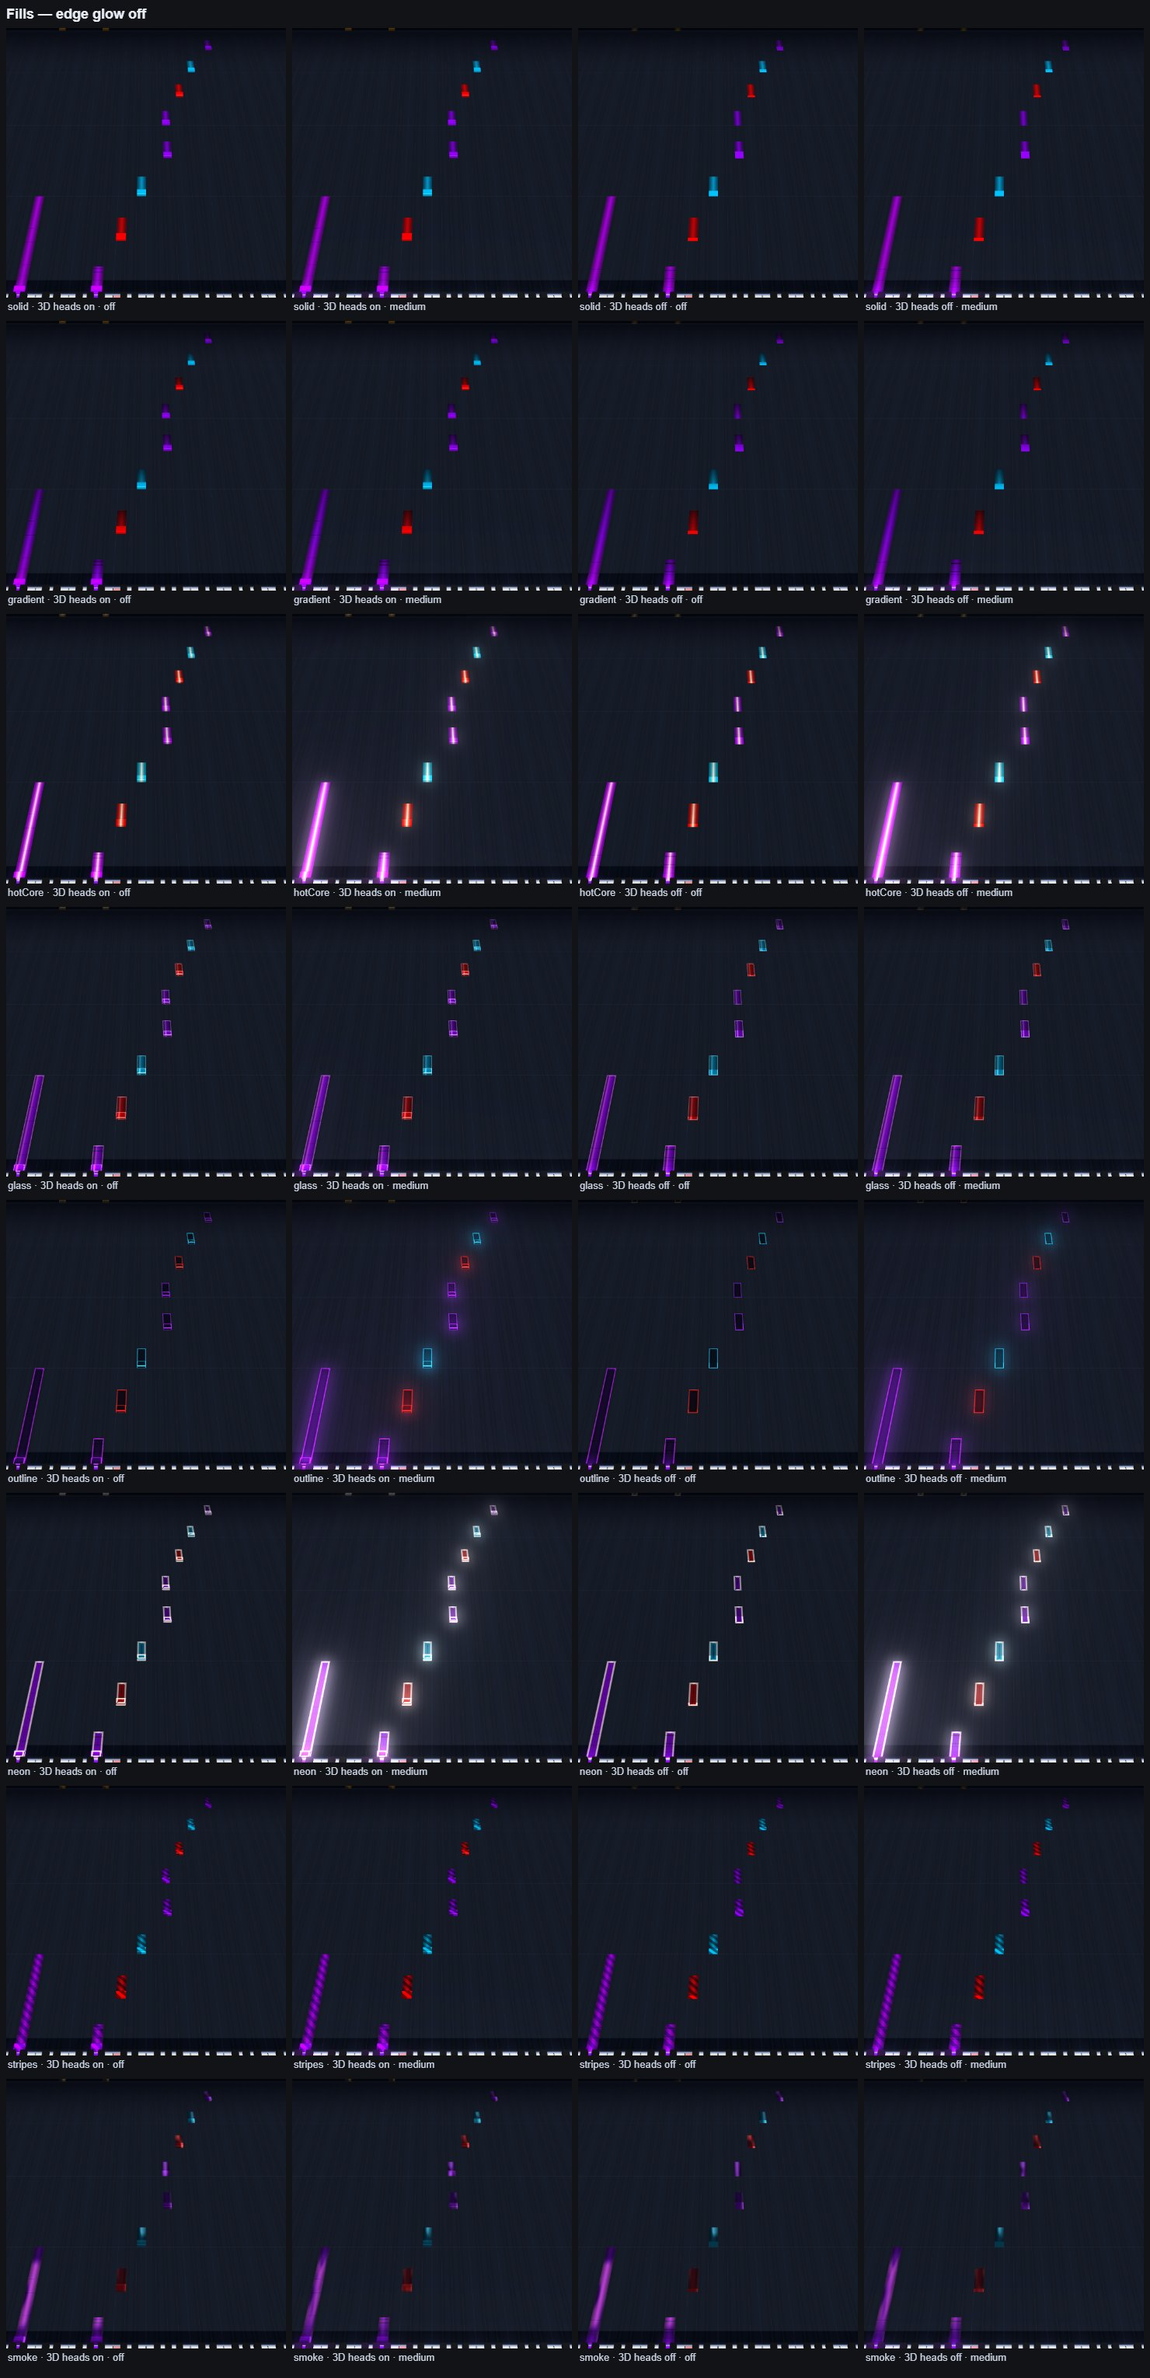
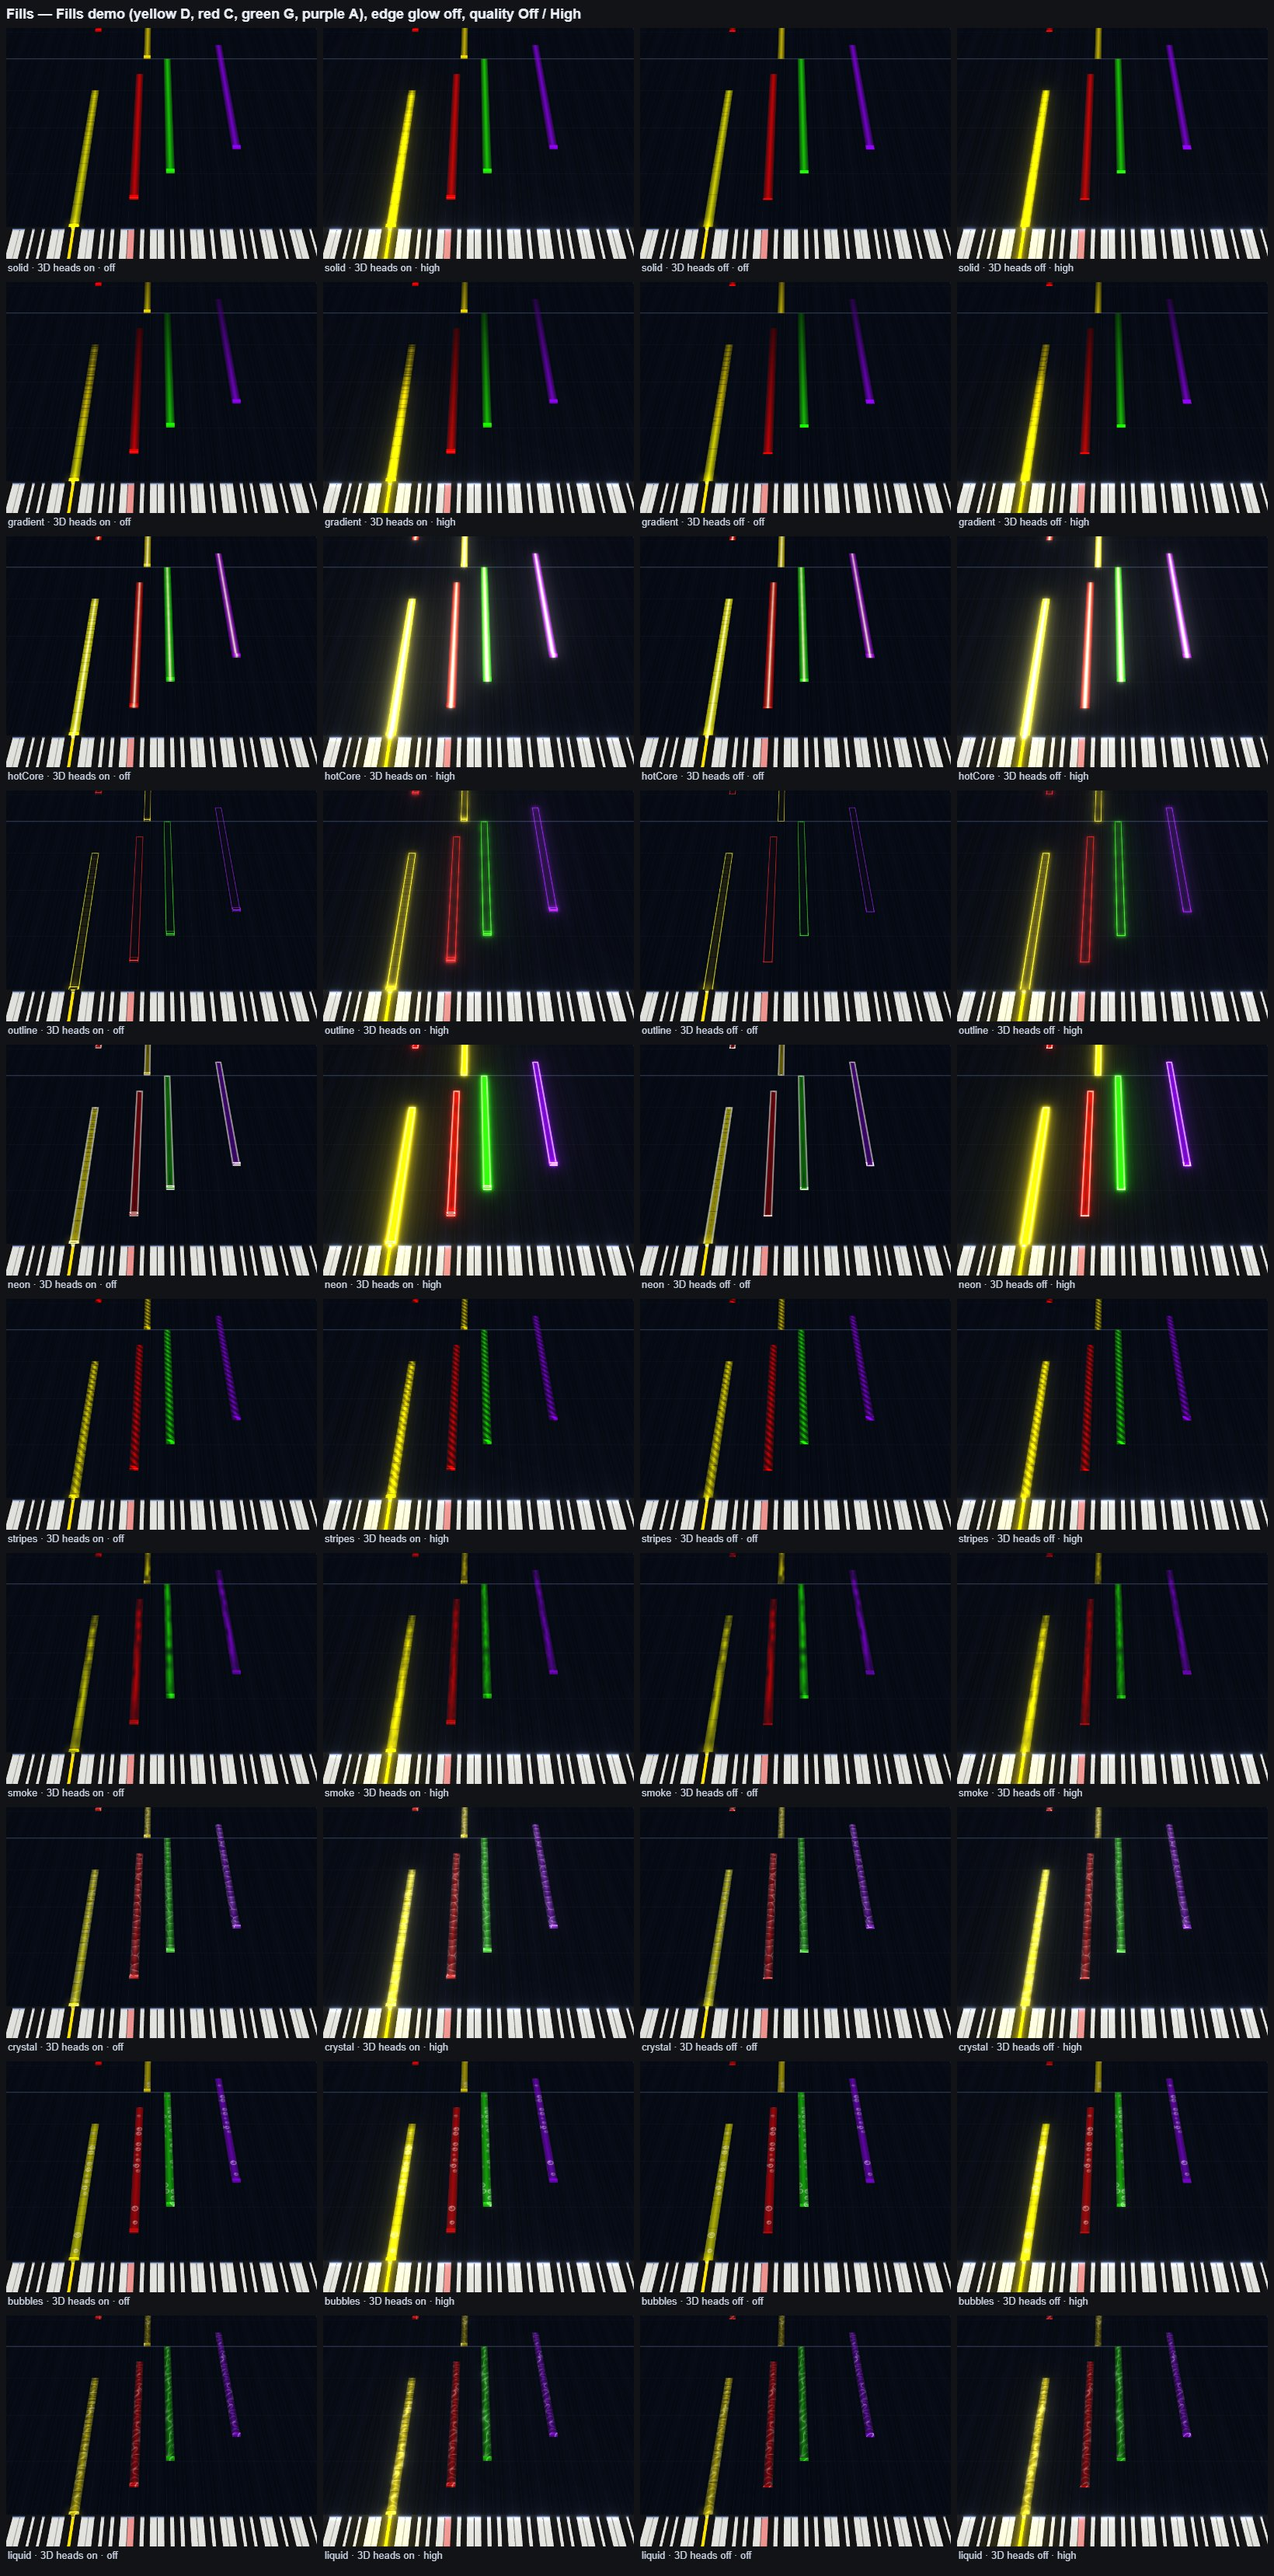
test(visual): fill sheets with the final list at quality Off and High

Changed region(s): [[0.0, 0.0, 0.9946, 0.9935]]

diff --git a/e2e/sheets.spec.ts b/e2e/sheets.spec.ts
@@ -35,11 +35,13 @@ const FILLS = [
   'solid',
   'gradient',
   'hotCore',
-  'glass',
   'outline',
   'neon',
   'stripes',
   'smoke',
+  'crystal',
+  'bubbles',
+  'liquid',
 ] as const
 
 /** The notes' part of the frame (with the short look-ahead below), near and far. */
@@ -57,28 +59,41 @@ function fillSettings(fill: string, extra: Settings = {}): Settings {
   }
 }
 
-test('@visual sheet fills: every fill, 3D heads on/off, quality Off/Medium', async ({
+/** Yellow, red, green and purple lanes of the fills demo, near and far. */
+const LANES: Crop = { x: 300, y: 120, width: 700, height: 520 }
+/** The fills demo's look-ahead: near and far notes in one frame. */
+const LANES_AHEAD = { lookAheadBeats: 5 }
+
+test('@visual sheet fills: every fill, 3D heads on/off, quality Off/High', async ({
   page,
   browser,
 }) => {
-  test.setTimeout(600_000)
-  await openSong(page, PEDAL_DEMO, 'Pedal demo')
+  test.setTimeout(900_000)
+  await openSong(page, FILLS_DEMO, 'Fills demo')
   const cells: Cell[] = []
   for (const fill of FILLS) {
     for (const heads3d of [true, false]) {
-      for (const quality of ['off', 'medium'] as const) {
+      for (const quality of ['off', 'high'] as const) {
         const settings = fillSettings(fill, {
+          highway: LANES_AHEAD,
           notes: { heads3d },
           render: QUALITY[quality],
         })
         cells.push({
           label: `${fill} · 3D heads ${heads3d ? 'on' : 'off'} · ${quality}`,
-          png: await frameWith(page, settings, 2, NEAR),
+          png: await frameWith(page, settings, 2, LANES),
         })
       }
     }
   }
-  await writeSheet(browser, `${OUT}/fills.png`, 'Fills — edge glow off', cells, 4, 360)
+  await writeSheet(
+    browser,
+    `${OUT}/fills.png`,
+    'Fills — Fills demo (yellow D, red C, green G, purple A), edge glow off, quality Off / High',
+    cells,
+    4,
+    400,
+  )
   expect(cells.length).toBeGreaterThan(0)
 })
 
@@ -109,20 +124,27 @@ test('@visual sheet fills: transparency 0/25/50/75/90 %', async ({ page, browser
   expect(cells.length).toBeGreaterThan(0)
 })
 
-test('@visual sheet fills: Hot core, Glass, Outline, Neon side by side', async ({
+/** The fills with their own look beyond a colour ramp, compared side by side. */
+const COMPARE = ['hotCore', 'outline', 'neon', 'smoke', 'crystal', 'bubbles', 'liquid'] as const
+
+test('@visual sheet fills: Hot core, Outline, Neon, Smoke, Crystal, Bubbles, Liquid', async ({
   page,
   browser,
 }) => {
-  test.setTimeout(300_000)
-  await openSong(page, PEDAL_DEMO, 'Pedal demo')
+  test.setTimeout(600_000)
+  await openSong(page, FILLS_DEMO, 'Fills demo')
   const cells: Cell[] = []
-  for (const quality of ['off', 'medium'] as const) {
+  for (const quality of ['off', 'high'] as const) {
     for (const heads3d of [true, false]) {
-      for (const fill of ['hotCore', 'glass', 'outline', 'neon']) {
-        const settings = fillSettings(fill, { notes: { heads3d }, render: QUALITY[quality] })
+      for (const fill of COMPARE) {
+        const settings = fillSettings(fill, {
+          highway: LANES_AHEAD,
+          notes: { heads3d },
+          render: QUALITY[quality],
+        })
         cells.push({
           label: `${fill} · 3D heads ${heads3d ? 'on' : 'off'} · ${quality}`,
-          png: await frameWith(page, settings, 2, NEAR),
+          png: await frameWith(page, settings, 2, LANES),
         })
       }
     }
@@ -130,10 +152,10 @@ test('@visual sheet fills: Hot core, Glass, Outline, Neon side by side', async (
   await writeSheet(
     browser,
     `${OUT}/fills-compare.png`,
-    'Hot core, Glass, Outline, Neon — quality Off and Medium, default transparency',
+    'Hot core, Outline, Neon, Smoke, Crystal, Bubbles, Liquid — quality Off and High, default transparency',
     cells,
-    4,
-    480,
+    7,
+    400,
   )
   expect(cells.length).toBeGreaterThan(0)
 })
@@ -224,7 +246,7 @@ const LABELS: Crop = { x: 300, y: 260, width: 680, height: 460 }
 
 const NAMES_CASES: readonly { readonly label: string; readonly names: Record<string, unknown> }[] =
   [
-    { label: 'defaults (facing camera, once per bar)', names: {} },
+    { label: 'defaults (facing camera, once per bar, within 60 %)', names: {} },
     { label: 'flat on note', names: { style: 'flat' } },
     { label: 'colour: note', names: { textColor: 'note' } },
     { label: 'colour: white', names: { textColor: 'white' } },
@@ -236,7 +258,7 @@ const NAMES_CASES: readonly { readonly label: string; readonly names: Record<str
     { label: 'text 18 px, glow subtle', names: { textSize: 18, glow: 'subtle' } },
     { label: 'Both (handover at the keys)', names: { mode: 'both' } },
     { label: 'Both, key labels 16 px', names: { mode: 'both', keySize: 16 } },
-    { label: 'once per bar, show within 60 %', names: { showWithin: 0.6 } },
+    { label: 'show within 40 % (the old default)', names: { showWithin: 0.4 } },
     { label: 'repeated notes: first of a run', names: { repeats: 'first' } },
     { label: 'repeated notes: all', names: { repeats: 'all' } },
   ]
@@ -266,50 +288,5 @@ for (const song of [
       680,
     )
     expect(cells).toHaveLength(NAMES_CASES.length)
-  })
-}
-
-/** Round-6 fill candidates: animated ones get three frames half a second apart. */
-const CANDIDATES = [
-  { fill: 'smokeRound1', label: 'Smoke (round 1)', times: [3, 3.5, 4] },
-  { fill: 'smoke', label: 'Smoke (fixed)', times: [3, 3.5, 4] },
-  { fill: 'crystal', label: 'Crystal', times: [3] },
-  { fill: 'bubbles', label: 'Bubbles', times: [3, 3.5, 4] },
-  { fill: 'liquid', label: 'Liquid', times: [3, 3.5, 4] },
-] as const
-
-/** Yellow, red, green and purple lanes of the fills demo, near and far. */
-const LANES: Crop = { x: 300, y: 120, width: 700, height: 520 }
-
-for (const c of CANDIDATES) {
-  test(`@visual sheet fills: candidate ${c.label}`, async ({ page, browser }) => {
-    test.setTimeout(600_000)
-    await openSong(page, FILLS_DEMO, 'Fills demo')
-    const cells: Cell[] = []
-    for (const quality of ['off', 'high'] as const) {
-      for (const heads3d of [true, false]) {
-        for (const t of c.times) {
-          const settings: Settings = {
-            highway: { lookAheadBeats: 5 },
-            notes: { heads3d },
-            render: QUALITY[quality],
-            noteStyle: { headFill: c.fill, sustainFill: c.fill, edgeGlow: false },
-          }
-          cells.push({
-            label: `${quality} · 3D heads ${heads3d ? 'on' : 'off'} · t ${t} s`,
-            png: await frameWith(page, settings, 2, LANES, t),
-          })
-        }
-      }
-    }
-    await writeSheet(
-      browser,
-      `${OUT}/candidate-${c.fill}.png`,
-      `${c.label} — Fills demo (yellow D, red C, green G, purple A), bar 2, quality Off / High`,
-      cells,
-      Math.max(2, c.times.length),
-      560,
-    )
-    expect(cells.length).toBeGreaterThan(0)
   })
 }
